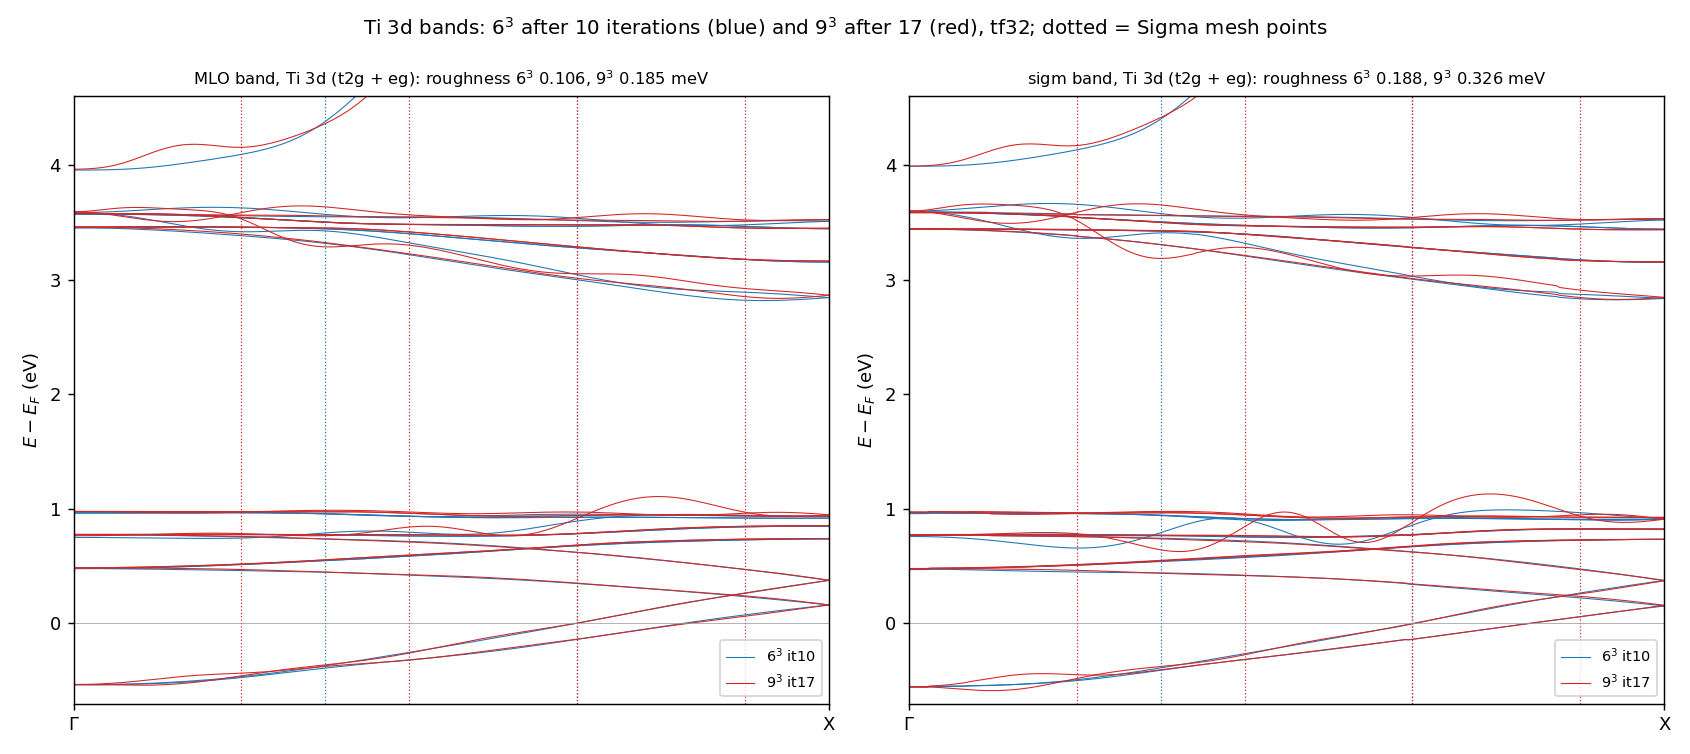
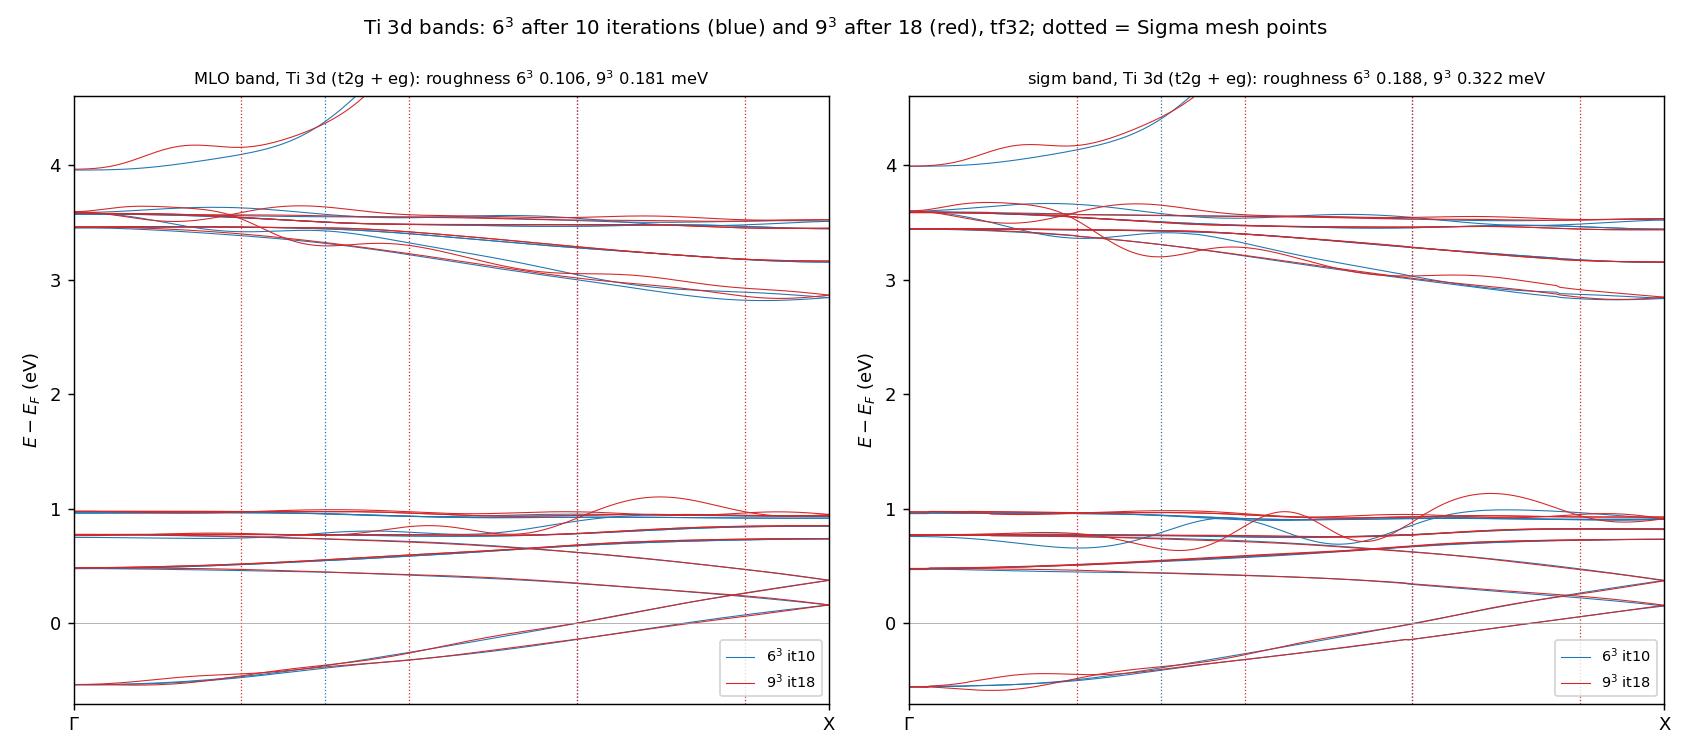
kBT_research: 9^3 continuation iteration 18

diff --git a/Samples/kBT/kBT_research.md b/Samples/kBT/kBT_research.md
@@ -83,6 +83,10 @@
 
 （夜の TODO: 6³・9³ の tf32 の収束、FP16 の確かめ (a)〜(c)、検証、kBT の残り、ファイルの統一、速さの残り、文書の整理）
 
+### 06:35 **9³ の続き、反復 18: 沈み込み 5.0 meV、2/9 の差 15.5 meV、1/3 の差 15.1 meV。交差はほぼほどけた**
+
+- 反復 18（06:32 に終わり、1262 秒）: ehf −109763.273661 eV（17 から −0.077 eV）。17→18 の占有の 2 本の変化 最大 6.7・rms 3.0 meV。1 eV のこぶは 1.104 eV
+
 ### 06:12 **9³ の続き、反復 17: 占有の 2 本はほぼ一定の速さで 6³ の形へ（沈み込み 6.7 meV、2/9 の差 22 meV、1/3 の差 13.6 meV）**
 
 - 反復 17（06:09 に終わり、1261 秒）: ehf −109763.197003 eV（16 から −0.069 eV）。16→17 の占有の 2 本の変化 最大 9.5・rms 4.2 meV
